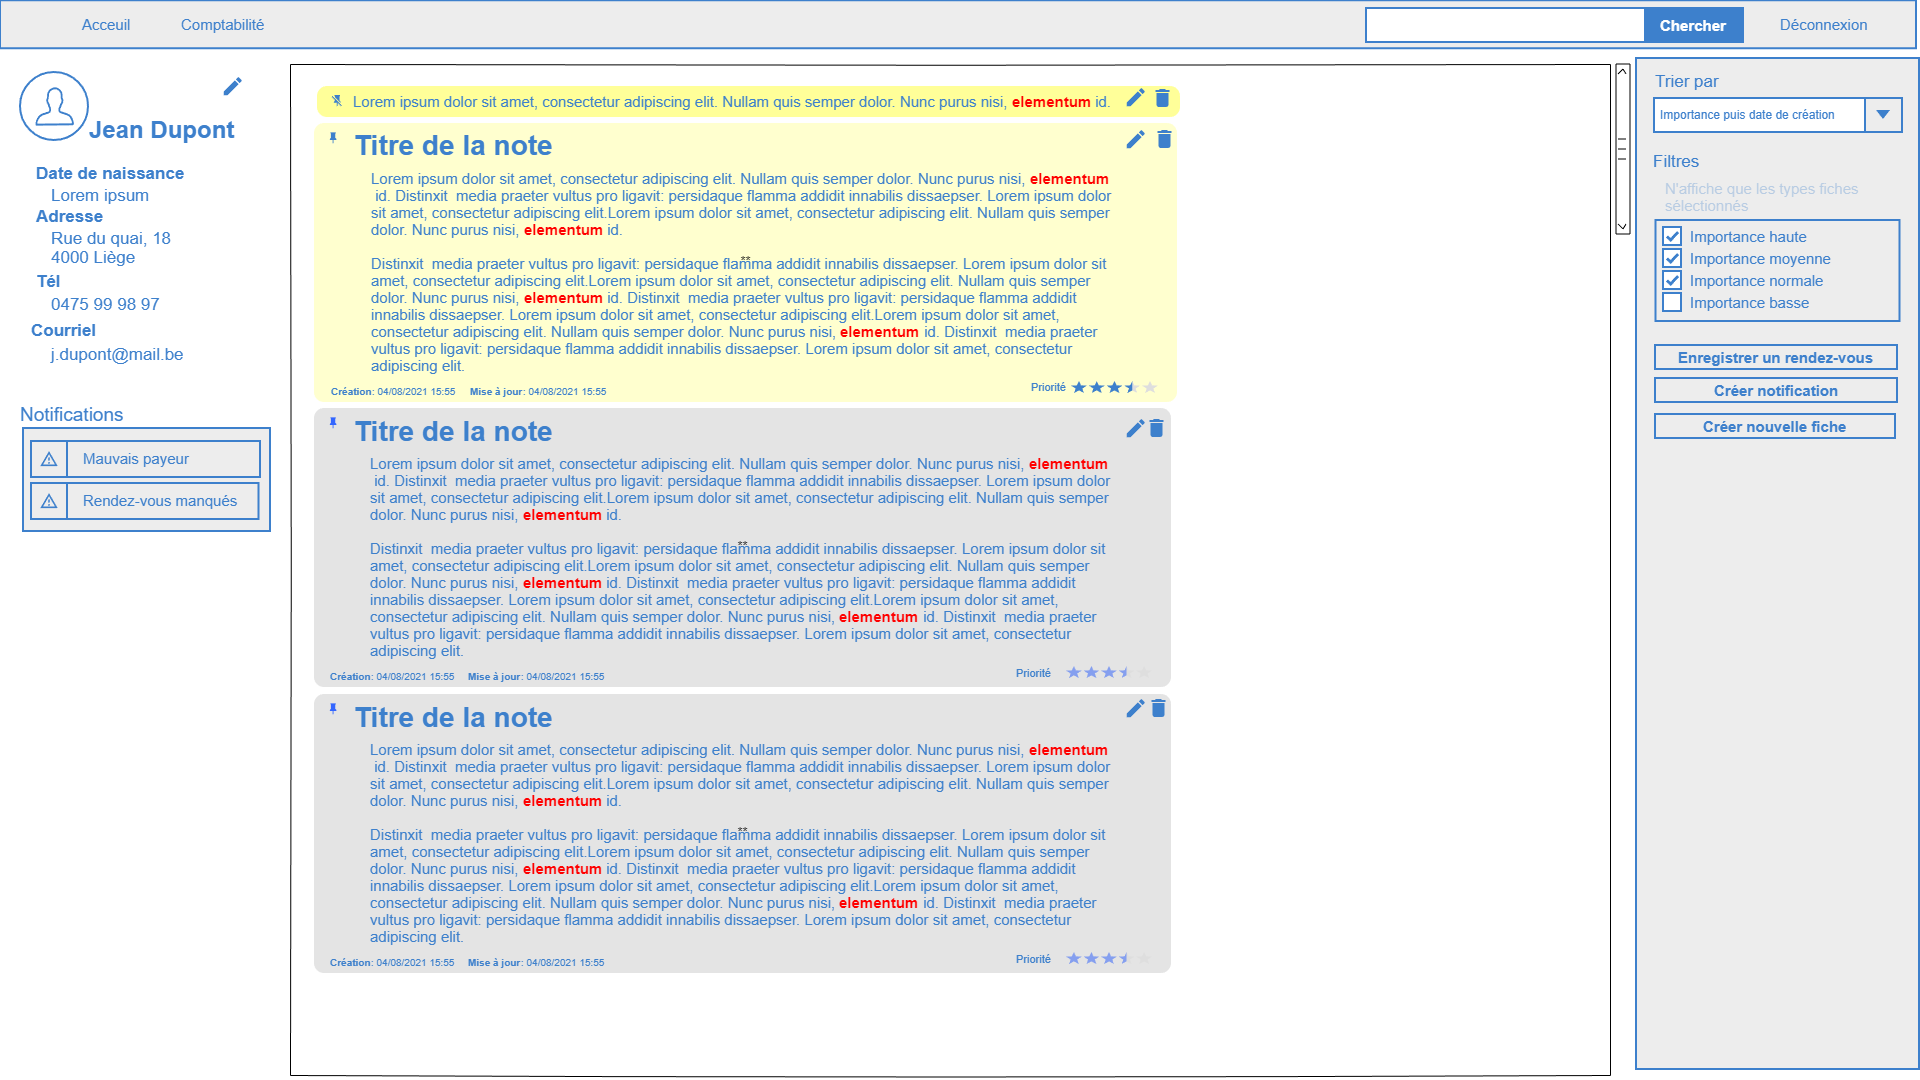
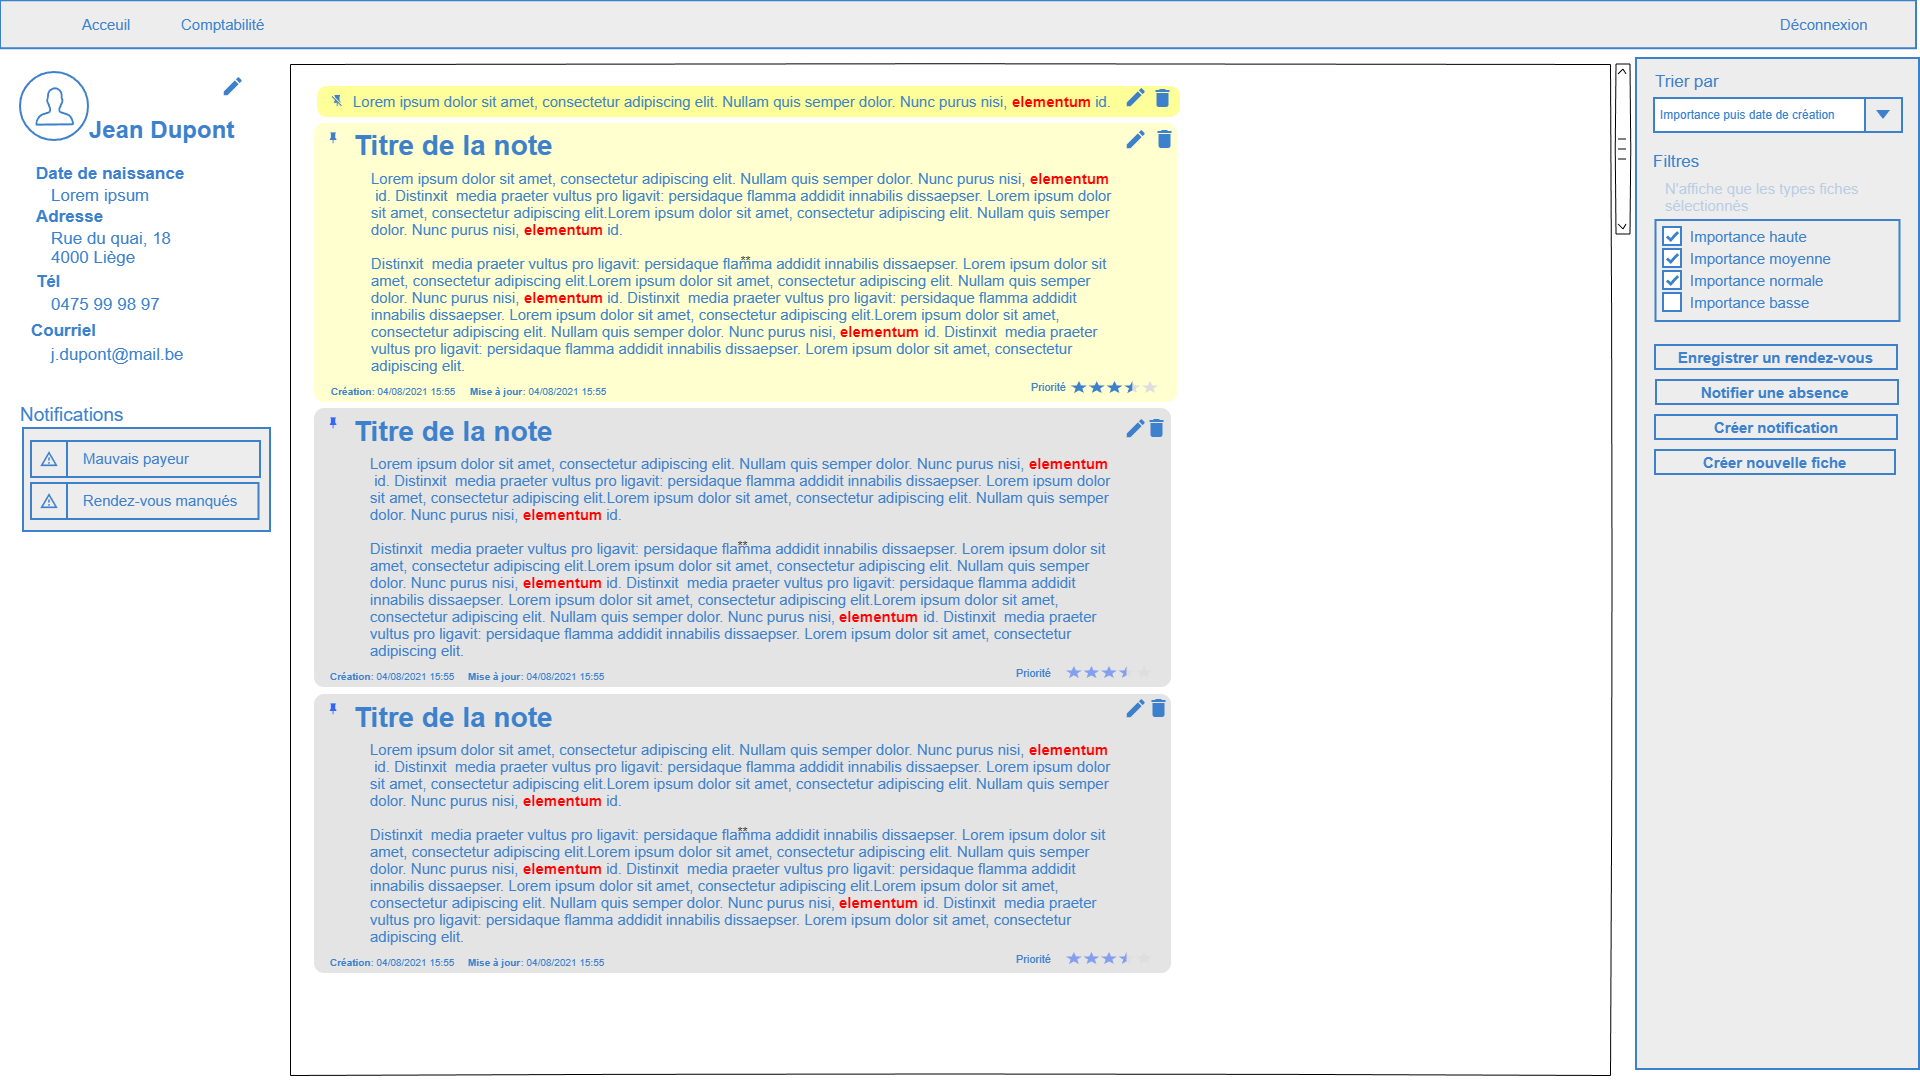
[WIP] manage accouning

diff --git a/index.html b/index.html
@@ -1,2 +1,2 @@
 <html xmlns="http://www.w3.org/1999/xhtml" xmlns:p="http://www.evolus.vn/Namespace/Pencil" xmlns:html="http://www.w3.org/1999/xhtml"><head><meta http-equiv="Content-Type" content="text/html; charset=UTF-8" />
-<title>ui_design</title><link rel="stylesheet" href="Resources/style.css" /><script type="application/javascript" src="Resources/script.js"></script></head><body><h1 id="documentTitle">ui_design</h1><p id="documentMetadata">Exported at: Tue Oct 12 2021 13:17:47 GMT+0200 (Central European Summer Time)</p><div class="Page" id="login_page"><h2>Login</h2><div class="ImageContainer"><img src="pages\login.png" width="1920" height="1080" usemap="#map_login" /></div><map name="map_login"><area shape="rect" coords="1021,559,1154,597" href="#tableau_de_bord_page" title="Go to page 'Tableau de bord'" /></map></div><div class="Page" id="tableau_de_bord_page"><h2>Tableau de bord</h2><div class="ImageContainer"><img src="pages\tableau_de_bord.png" width="1920" height="1080" usemap="#map_tableau_de_bord" /></div><map name="map_tableau_de_bord"><area shape="rect" coords="1786,905,1884,939" href="#dossier_mdical_page" title="Go to page 'Dossier médical'" /><area shape="rect" coords="69,351,1013,394" href="#dossier_mdical_page" title="Go to page 'Dossier médical'" /><area shape="rect" coords="69,252,1013,295" href="#dossier_mdical_page" title="Go to page 'Dossier médical'" /><area shape="rect" coords="69,301,1013,344" href="#dossier_mdical_page" title="Go to page 'Dossier médical'" /><area shape="rect" coords="69,203,1013,246" href="#dossier_mdical_page" title="Go to page 'Dossier médical'" /><area shape="rect" coords="1368,12,1745,46" href="#tableau_de_bord_page" title="Go to page 'Tableau de bord'" /><area shape="rect" coords="1782,20.25,1869.5625,37.25" href="#login_page" title="Go to page 'Login'" /><area shape="rect" coords="83,20,132.359375,37" href="#tableau_de_bord_page" title="Go to page 'Tableau de bord'" /></map></div><div class="Page" id="dossier_mdical_page"><h2>Dossier médical</h2><div class="ImageContainer"><img src="pages\dossier_mdical.png" width="1920" height="1080" usemap="#map_dossier_mdical" /></div><map name="map_dossier_mdical"><area shape="rect" coords="220.75,74.25,244.75,98.25" href="#editer_fiche_signaltique_page" title="Go to page 'Editer fiche signalétique'" /><area shape="rect" coords="1146.5,696,1170.5,720" href="#confirmation_de_suppression_page" title="Go to page 'Confirmation de suppression'" /><area shape="rect" coords="1152.5,127,1176.5,151" href="#confirmation_de_suppression_page" title="Go to page 'Confirmation de suppression'" /><area shape="rect" coords="1144.5,416,1168.5,440" href="#confirmation_de_suppression_page" title="Go to page 'Confirmation de suppression'" /><area shape="rect" coords="1150.5,86,1174.5,110" href="#confirmation_de_suppression_page" title="Go to page 'Confirmation de suppression'" /><area shape="rect" coords="1123.75,85.25,1147.75,109.25" href="#crer_note_page" title="Go to page 'Créer note'" /><area shape="rect" coords="1123.75,416.25,1147.75,440.25" href="#crer_note_page" title="Go to page 'Créer note'" /><area shape="rect" coords="1123.75,127.25,1147.75,151.25" href="#crer_note_page" title="Go to page 'Créer note'" /><area shape="rect" coords="1123.75,696.25,1147.75,720.25" href="#crer_note_page" title="Go to page 'Créer note'" /><area shape="rect" coords="1366,8,1743,42" href="#tableau_de_bord_page" title="Go to page 'Tableau de bord'" /><area shape="rect" coords="1780,16.25,1867.5625,33.25" href="#login_page" title="Go to page 'Login'" /><area shape="rect" coords="81,16,130.359375,33" href="#tableau_de_bord_page" title="Go to page 'Tableau de bord'" /><area shape="rect" coords="1655,378,1897,402" href="#crer_notification_page" title="Go to page 'Créer notification'" /><area shape="rect" coords="1655,345,1897,369" href="#enregistrer_rendezvous_page" title="Go to page 'Enregistrer rendez-vous'" /><area shape="rect" coords="1655,414,1895,438" href="#crer_note_page" title="Go to page 'Créer note'" /></map></div><div class="Page" id="crer_note_page"><h2>Créer note</h2><div class="ImageContainer"><img src="pages\crer_note.png" width="593" height="447" usemap="#map_crer_note" /></div><map name="map_crer_note"><area shape="rect" coords="491,408,589,442" href="#dossier_mdical_page" title="Go to page 'Dossier médical'" /><area shape="rect" coords="381,408,479,442" href="#dossier_mdical_page" title="Go to page 'Dossier médical'" /></map></div><div class="Page" id="enregistrer_rendezvous_page"><h2>Enregistrer rendez-vous</h2><div class="ImageContainer"><img src="pages\enregistrer_rendezvous.png" width="425" height="255" usemap="#map_enregistrer_rendezvous" /></div><map name="map_enregistrer_rendezvous"><area shape="rect" coords="311,211,409,245" href="#dossier_mdical_page" title="Go to page 'Dossier médical'" /><area shape="rect" coords="204,211,302,245" href="#dossier_mdical_page" title="Go to page 'Dossier médical'" /></map></div><div class="Page" id="crer_notification_page"><h2>Créer notification</h2><div class="ImageContainer"><img src="pages\crer_notification.png" width="470" height="150" usemap="#map_crer_notification" /></div><map name="map_crer_notification"><area shape="rect" coords="361,108,459,142" href="#dossier_mdical_page" title="Go to page 'Dossier médical'" /><area shape="rect" coords="248,108,346,142" href="#dossier_mdical_page" title="Go to page 'Dossier médical'" /></map></div><div class="Page" id="confirmation_de_suppression_page"><h2>Confirmation de suppression</h2><div class="ImageContainer"><img src="pages\confirmation_de_suppression.png" width="330" height="160" usemap="#map_confirmation_de_suppression" /></div><map name="map_confirmation_de_suppression"><area shape="rect" coords="211,106,309,140" href="#dossier_mdical_page" title="Go to page 'Dossier médical'" /><area shape="rect" coords="101,106,199,140" href="#dossier_mdical_page" title="Go to page 'Dossier médical'" /></map></div><div class="Page" id="editer_fiche_signaltique_page"><h2>Editer fiche signalétique</h2><div class="ImageContainer"><img src="pages\editer_fiche_signaltique.png" width="745" height="500" usemap="#map_editer_fiche_signaltique" /></div><map name="map_editer_fiche_signaltique"><area shape="rect" coords="626,446,724,480" href="#dossier_mdical_page" title="Go to page 'Dossier médical'" /><area shape="rect" coords="504,446,602,480" href="#dossier_mdical_page" title="Go to page 'Dossier médical'" /></map></div></body></html>
+<title>ui_design</title><link rel="stylesheet" href="Resources/style.css" /><script type="application/javascript" src="Resources/script.js"></script></head><body><h1 id="documentTitle">ui_design</h1><p id="documentMetadata">Exported at: Thu Oct 14 2021 11:21:09 GMT+0200 (Central European Summer Time)</p><div class="Page" id="login_page"><h2>Login</h2><div class="ImageContainer"><img src="pages\login.png" width="1920" height="1080" usemap="#map_login" /></div><map name="map_login"><area shape="rect" coords="1021,559,1154,597" href="#tableau_de_bord_page" title="Go to page 'Tableau de bord'" /></map></div><div class="Page" id="tableau_de_bord_page"><h2>Tableau de bord</h2><div class="ImageContainer"><img src="pages\tableau_de_bord.png" width="1920" height="1080" usemap="#map_tableau_de_bord" /></div><map name="map_tableau_de_bord"><area shape="rect" coords="1782,20.25,1869.5625,37.25" href="#login_page" title="Go to page 'Login'" /><area shape="rect" coords="183,20,267.03125,37" href="#comptabilit_page" title="Go to page 'comptabilité'" /><area shape="rect" coords="83,20,132.359375,37" href="#tableau_de_bord_page" title="Go to page 'Tableau de bord'" /><area shape="rect" coords="69,351,1013,394" href="#dossier_mdical_page" title="Go to page 'Dossier médical'" /><area shape="rect" coords="69,252,1013,295" href="#dossier_mdical_page" title="Go to page 'Dossier médical'" /><area shape="rect" coords="69,301,1013,344" href="#dossier_mdical_page" title="Go to page 'Dossier médical'" /><area shape="rect" coords="69,203,1013,246" href="#dossier_mdical_page" title="Go to page 'Dossier médical'" /><area shape="rect" coords="1786,905,1884,939" href="#dossier_mdical_page" title="Go to page 'Dossier médical'" /></map></div><div class="Page" id="dossier_mdical_page"><h2>Dossier médical</h2><div class="ImageContainer"><img src="pages\dossier_mdical.png" width="1920" height="1080" usemap="#map_dossier_mdical" /></div><map name="map_dossier_mdical"><area shape="rect" coords="1780,16.25,1867.5625,33.25" href="#login_page" title="Go to page 'Login'" /><area shape="rect" coords="181,16,265.03125,33" href="#comptabilit_page" title="Go to page 'comptabilité'" /><area shape="rect" coords="81,16,130.359375,33" href="#tableau_de_bord_page" title="Go to page 'Tableau de bord'" /><area shape="rect" coords="1366,8,1743,42" href="#tableau_de_bord_page" title="Go to page 'Tableau de bord'" /><area shape="rect" coords="1656,380,1898,404" href="#notifier_absence_page" title="Go to page 'Notifier absence'" /><area shape="rect" coords="1655,415,1897,439" href="#crer_notification_page" title="Go to page 'Créer notification'" /><area shape="rect" coords="1655,345,1897,369" href="#enregistrer_rendezvous_page" title="Go to page 'Enregistrer rendez-vous'" /><area shape="rect" coords="1655,450,1895,474" href="#crer_note_page" title="Go to page 'Créer note'" /><area shape="rect" coords="220.75,74.25,244.75,98.25" href="#editer_fiche_signaltique_page" title="Go to page 'Editer fiche signalétique'" /><area shape="rect" coords="1146.5,696,1170.5,720" href="#confirmation_de_suppression_page" title="Go to page 'Confirmation de suppression'" /><area shape="rect" coords="1152.5,127,1176.5,151" href="#confirmation_de_suppression_page" title="Go to page 'Confirmation de suppression'" /><area shape="rect" coords="1144.5,416,1168.5,440" href="#confirmation_de_suppression_page" title="Go to page 'Confirmation de suppression'" /><area shape="rect" coords="1150.5,86,1174.5,110" href="#confirmation_de_suppression_page" title="Go to page 'Confirmation de suppression'" /><area shape="rect" coords="1123.75,85.25,1147.75,109.25" href="#crer_note_page" title="Go to page 'Créer note'" /><area shape="rect" coords="1123.75,416.25,1147.75,440.25" href="#crer_note_page" title="Go to page 'Créer note'" /><area shape="rect" coords="1123.75,127.25,1147.75,151.25" href="#crer_note_page" title="Go to page 'Créer note'" /><area shape="rect" coords="1123.75,696.25,1147.75,720.25" href="#crer_note_page" title="Go to page 'Créer note'" /></map></div><div class="Page" id="crer_note_page"><h2>Créer note</h2><div class="ImageContainer"><img src="pages\crer_note.png" width="593" height="447" usemap="#map_crer_note" /></div><map name="map_crer_note"><area shape="rect" coords="491,408,589,442" href="#dossier_mdical_page" title="Go to page 'Dossier médical'" /><area shape="rect" coords="381,408,479,442" href="#dossier_mdical_page" title="Go to page 'Dossier médical'" /></map></div><div class="Page" id="enregistrer_rendezvous_page"><h2>Enregistrer rendez-vous</h2><div class="ImageContainer"><img src="pages\enregistrer_rendezvous.png" width="425" height="255" usemap="#map_enregistrer_rendezvous" /></div><map name="map_enregistrer_rendezvous"><area shape="rect" coords="311,211,409,245" href="#dossier_mdical_page" title="Go to page 'Dossier médical'" /><area shape="rect" coords="204,211,302,245" href="#dossier_mdical_page" title="Go to page 'Dossier médical'" /></map></div><div class="Page" id="crer_notification_page"><h2>Créer notification</h2><div class="ImageContainer"><img src="pages\crer_notification.png" width="470" height="150" usemap="#map_crer_notification" /></div><map name="map_crer_notification"><area shape="rect" coords="361,108,459,142" href="#dossier_mdical_page" title="Go to page 'Dossier médical'" /><area shape="rect" coords="248,108,346,142" href="#dossier_mdical_page" title="Go to page 'Dossier médical'" /></map></div><div class="Page" id="confirmation_de_suppression_page"><h2>Confirmation de suppression</h2><div class="ImageContainer"><img src="pages\confirmation_de_suppression.png" width="330" height="160" usemap="#map_confirmation_de_suppression" /></div><map name="map_confirmation_de_suppression"><area shape="rect" coords="211,106,309,140" href="#dossier_mdical_page" title="Go to page 'Dossier médical'" /><area shape="rect" coords="101,106,199,140" href="#dossier_mdical_page" title="Go to page 'Dossier médical'" /></map></div><div class="Page" id="editer_fiche_signaltique_page"><h2>Editer fiche signalétique</h2><div class="ImageContainer"><img src="pages\editer_fiche_signaltique.png" width="745" height="500" usemap="#map_editer_fiche_signaltique" /></div><map name="map_editer_fiche_signaltique"><area shape="rect" coords="626,446,724,480" href="#dossier_mdical_page" title="Go to page 'Dossier médical'" /><area shape="rect" coords="504,446,602,480" href="#dossier_mdical_page" title="Go to page 'Dossier médical'" /></map></div><div class="Page" id="notifier_absence_page"><h2>Notifier absence</h2><div class="ImageContainer"><img src="pages\notifier_absence.png" width="385" height="235" usemap="#map_notifier_absence" /></div><map name="map_notifier_absence"><area shape="rect" coords="276,191,374,225" href="#dossier_mdical_page" title="Go to page 'Dossier médical'" /><area shape="rect" coords="166,191,264,225" href="#dossier_mdical_page" title="Go to page 'Dossier médical'" /></map></div><div class="Page" id="comptabilit_page"><h2>comptabilité</h2><div class="ImageContainer"><img src="pages\comptabilit.png" width="1920" height="1080" usemap="#map_comptabilit" /></div><map name="map_comptabilit"><area shape="rect" coords="1384,10,1761,44" href="#tableau_de_bord_page" title="Go to page 'Tableau de bord'" /><area shape="rect" coords="1782,18.25,1869.5625,35.25" href="#login_page" title="Go to page 'Login'" /><area shape="rect" coords="87,20,136.359375,37" href="#tableau_de_bord_page" title="Go to page 'Tableau de bord'" /><area shape="rect" coords="1368,10,1745,44" href="#tableau_de_bord_page" title="Go to page 'Tableau de bord'" /></map></div></body></html>
